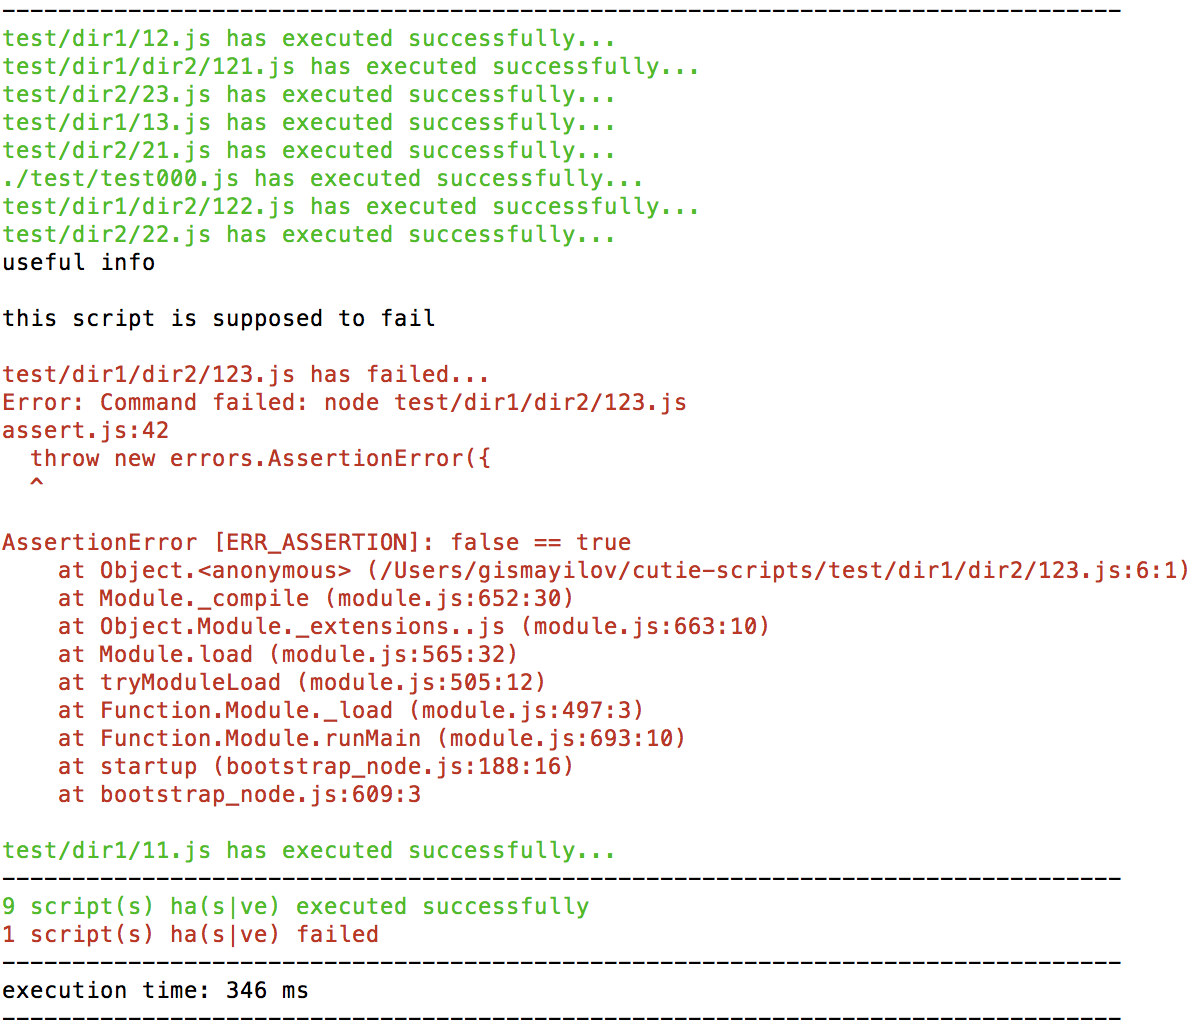
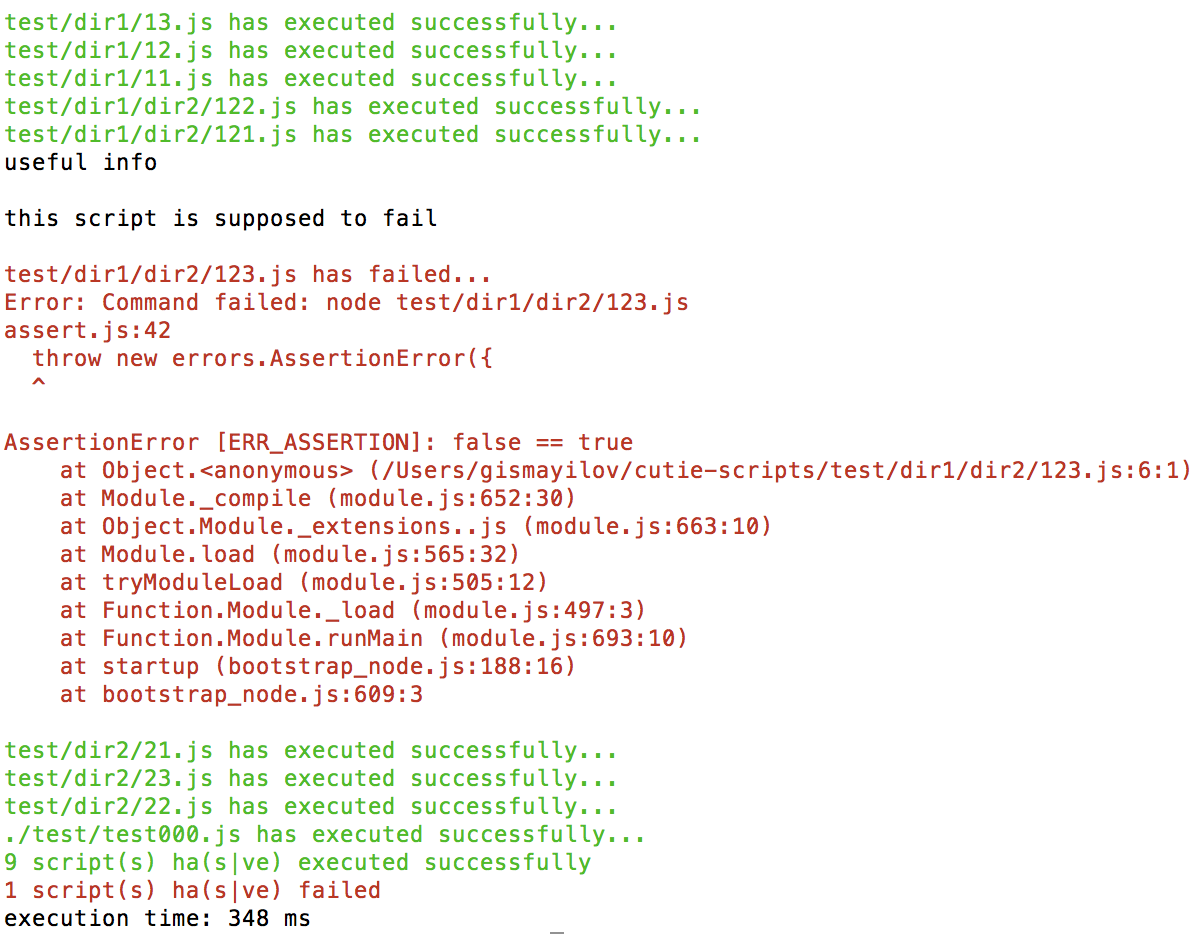
remove all logged lines

Changed region(s): [[0.0, 0.0, 0.9883, 0.9936]]

diff --git a/src/ExecutedCommandResults.js b/src/ExecutedCommandResults.js
@@ -1,7 +1,6 @@
 'use strict'
 
 const AsyncObject = require('@cuties/cutie').AsyncObject;
-const logLine = require('./logLine');
 
 class ExecutedCommandResults extends AsyncObject {
 
@@ -15,16 +14,13 @@ class ExecutedCommandResults extends AsyncObject {
         return result === 1
       }).length;
       let failNumber = results.length - successNumber;
-      logLine();
       if (successNumber !== 0) {
         console.log('\x1b[32m%s\x1b[0m', `${successNumber} script(s) ha(s|ve) executed successfully`);
       }
       if (failNumber !== 0) {
         console.log('\x1b[31m%s\x1b[0m', `${failNumber} script(s) ha(s|ve) failed`);
       }
-      logLine();
       executedTime.log('execution time: %d ms');
-      logLine();
       return results;
     }
   }

diff --git a/src/ExecutedCommands.js b/src/ExecutedCommands.js
@@ -4,7 +4,6 @@ const AsyncObject = require('@cuties/cutie').AsyncObject;
 const ExecutedCommandResult = require('./ExecutedCommandResult');
 const ExecutedCommandResults = require('./ExecutedCommandResults');
 const ExecutionTime = require('./ExecutionTime');
-const logLine = require('./logLine');
 
 // Respresend result is nodeCommandLines
 class ExecutedCommands extends AsyncObject {
@@ -20,7 +19,6 @@ class ExecutedCommands extends AsyncObject {
       nodeCommandLines.forEach(commandLine => {
         commands.push(new ExecutedCommandResult(commandLine, executionTime));
       });
-      logLine();
       new ExecutedCommandResults(executionTime, ...commands).call();
       return nodeCommandLines;
     }
